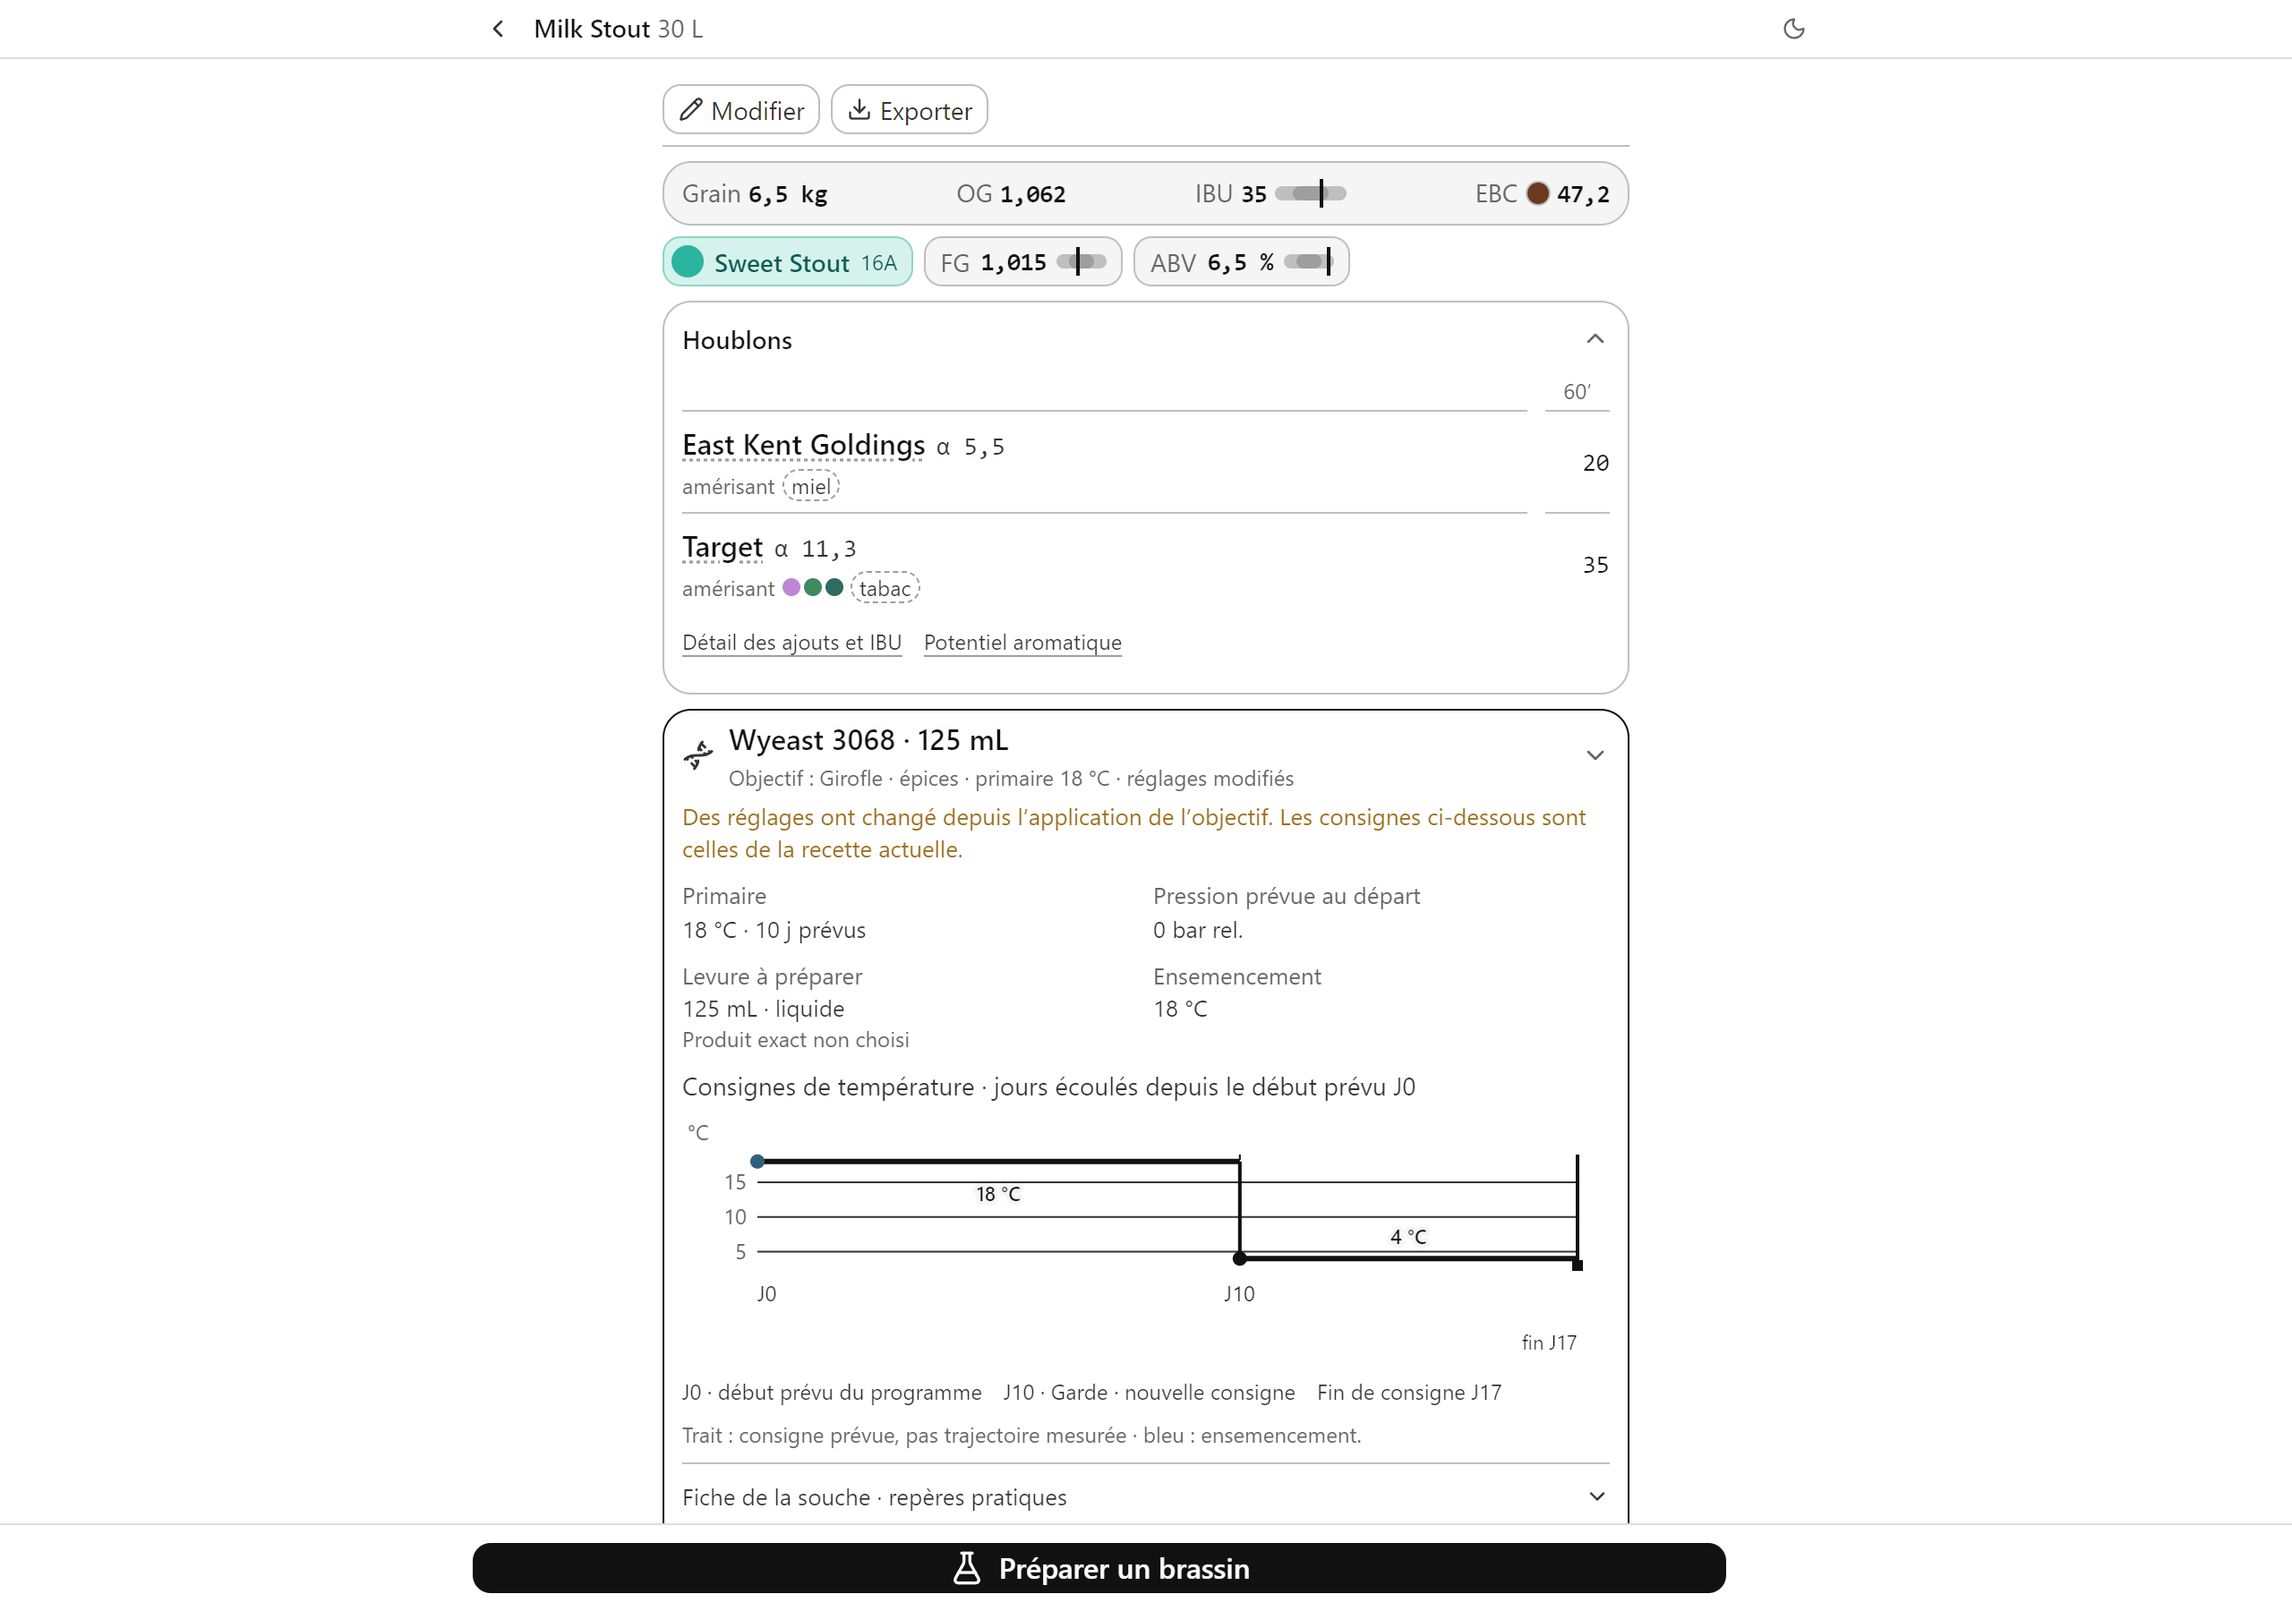
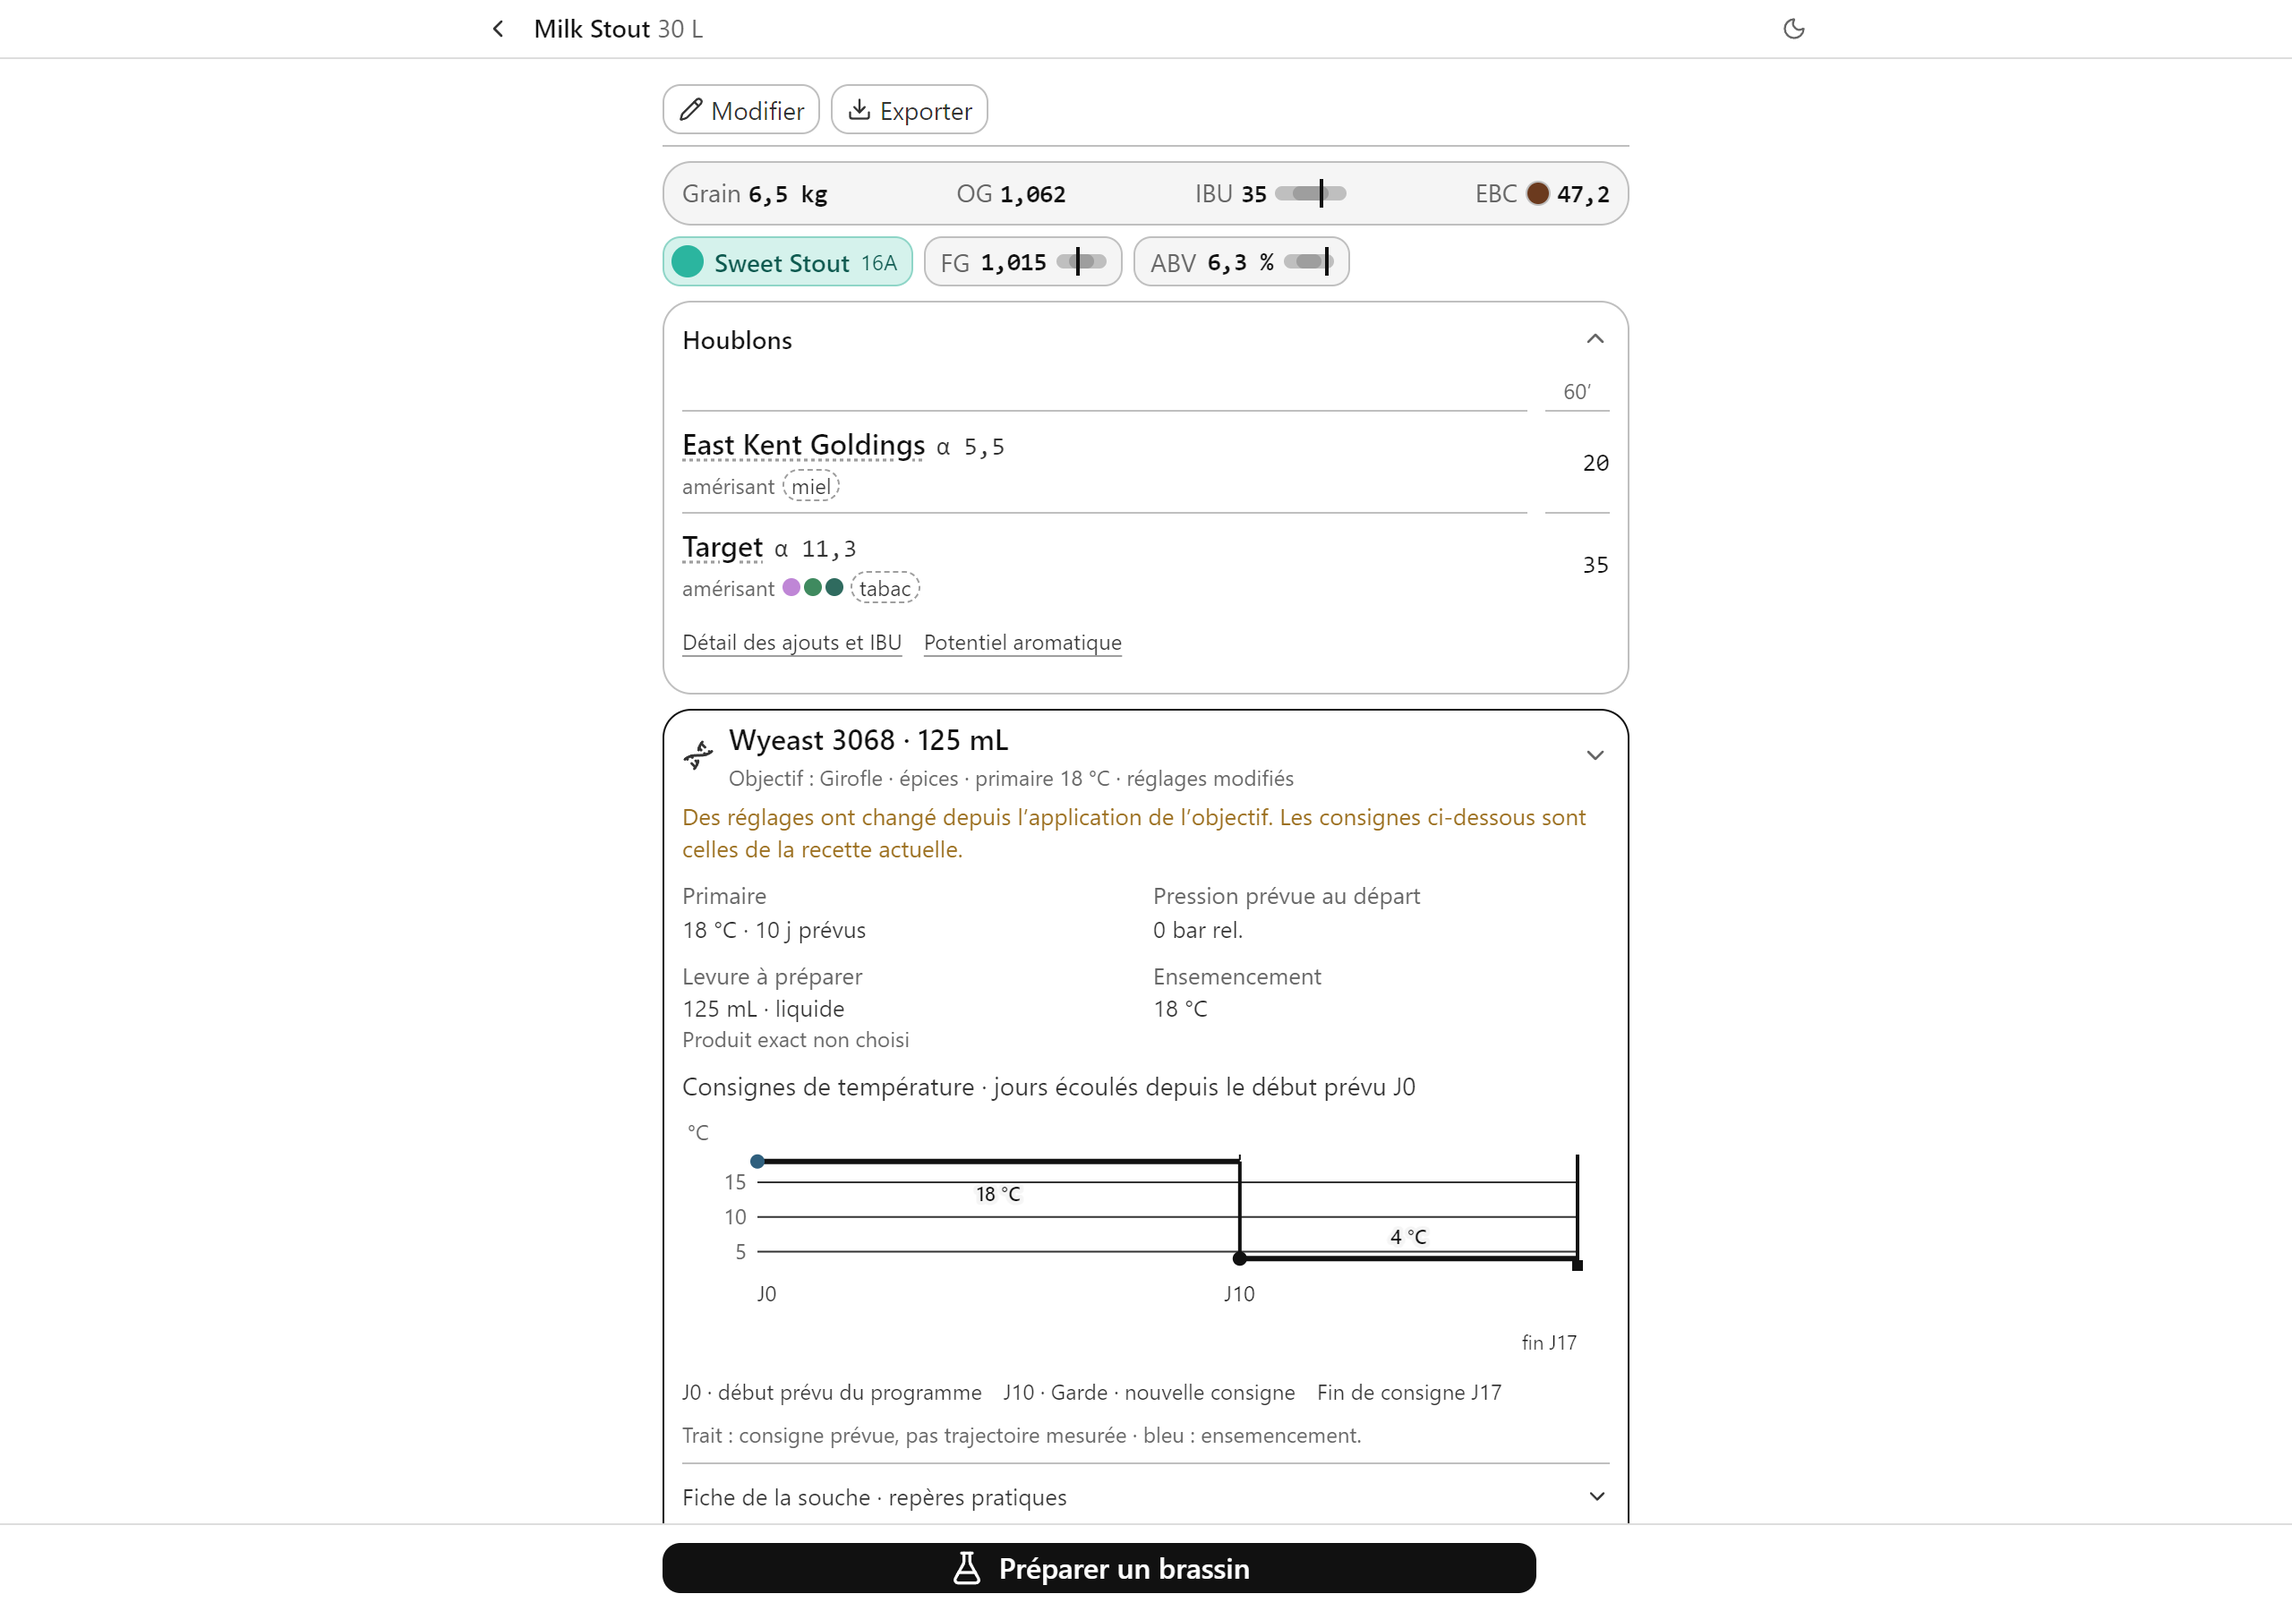
Bugs T3B (f1) k2 : captures, banc, RESULTAT et Fait

Changed region(s): [[0.6562, 0.9333, 0.75, 0.9956], [0.1875, 0.9333, 0.3125, 0.9956]]

diff --git a/work/missions/2026-11-19-bugs-ecrans/voies/f1/banc/banc.tsx b/work/missions/2026-11-19-bugs-ecrans/voies/f1/banc/banc.tsx
@@ -21,7 +21,7 @@ const NOMS_DU_STOCK = ['Maris Otter', 'Röstgerste (orge torréfiée)', 'Caramü
 const base = yeastFlowRecipe() as Recipe & { boilMin?: number };
 delete base.boilMin;
 const recette = {
-  ...base, id: 'rec-ms', name: 'Milk Stout', style: 'Milk Stout', volumeL: 30, ogTarget: 1.062, batchRef: 'LOT-001', adjuncts: [],
+  ...base, id: 'rec-ms', name: 'Milk Stout', style: 'Milk Stout', volumeL: 30, ogTarget: 1.062, fgTarget: 1.015, abvTarget: 6.3 /* ASBC Beer-4 pour 1,062 → 1,015 : 6,28 % (la fixture de base portait 6,49 : k2, ABV 6,5 % incohérent) */, batchRef: 'LOT-001', adjuncts: [],
   fermentables: [
     { name: 'Maris Otter', weightKg: 5.5, kind: 'grain', use: 'empatage', potentialPpg: 37, colorEbc: 5 },
     { name: 'Rstgerste (orge torrfie)', weightKg: 0.4, kind: 'grain', use: 'empatage', potentialPpg: 30, colorEbc: 1100 },

diff --git a/work/missions/2026-11-19-bugs-ecrans/voies/k2/CORRECTIONS-f1.md b/work/missions/2026-11-19-bugs-ecrans/voies/k2/CORRECTIONS-f1.md
@@ -1,0 +1,34 @@
+# Corrections f1, tour 2 (critique k2, 20.11)
+
+Liste figée (L18) : chaque point est corrigé et prouvé seul (test si c’est une règle ; capture 390 et 1280, clair et cave, ouverte), ou écarté avec raison. Un point « hors voie » de la critique se corrige s’il est dans ton « Possède » (voies/f1/VOIE.md) ; sinon « ouvert — hors voie : fichier ». Même contrat que voies/f1/VOIE.md : COMMUN.md, test rouge d’abord, commit par chemins « Bugs T3B (f1) k2 : … » terminé par « Co-Authored-By: Claude Opus 5.5 <noreply@anthropic.com> », jamais de déploiement ni de données réelles, jamais stash/reset/checkout.
+
+## Problèmes (RAPPORT.md, même dossier)
+10. f1 / hors voie / fiche-390-{clair,cave}-1, fiche-1280-clair-1 : sur le graphique d'Empâtage, les étiquettes « 66 °C · 60′ » et « 44 °C · 15′ » sont barrées par la ligne de grille. Elles sont aussi dans une police à empattements, différente de tout le reste / gênant
+11. f1 / fiche-{390,1280}-*-0 : la carte affiche « Wyeast 3068 · 125 mL », puis « Produit exact non choisi » juste en dessous. Les deux se contredisent / gênant
+12. f1 / T3B-12 / fiche-*-3 : redites. « Ébullition 60′ » est suivi de « Ébullition de 60 min. » ; le titre « Fermentation » est suivi du sous-titre « Fermentation » ; les pastilles « Primaire » et « Garde » répètent le mot qui est juste à côté / détail
+13. f1 / T3B-11 / fiche-390-*-4, fiche-1280-*-3 : la densité du brassin s'écrit « 1.062 » (avec un point), alors que le bandeau dit « 1,062 » / détail
+14. f1 / fiche-*-4 : le Déroulé finit par « FIN DE RECETTE » en capitales, après une ligne vide (reste de l'import). Le Bilan écrit aussi « AVANT la fin de l'ébullition » / détail
+15. f1 / fiche-1280-* : à 1280, la colonne fait environ 970 px, mais la barre « Préparer un brassin » est plus large qu'elle. Les deux ne sont pas alignées / détail
+
+## Doutes à trancher
+- f1, T3B-6 : la capture « simuler » est restée sur le Bilan (« onglet trouvé false »). Le correctif n'est donc pas vu. Je ne vois pas non plus d'onglet « Simuler » dans « Détail des ajouts et IBU » à 390.
+- f1 : ABV 6,5 % pour OG 1,062 et FG 1,015. La formule simple donne 6,2 %, la formule alternative 6,4 %. À vérifier.
+- f1 : la fixture (Milk Stout, Wyeast 3068, objectif « Girofle · épices », repos férulique) n'est pas une recette crédible. Ce n'est pas un défaut de l'app, mais la fiche n'est pas jugée sur une vraie pièce (L28).
+- f1 : je ne vois pas si les 300 g de lactose, désormais en « Additifs », comptent encore dans l'OG et la FG.
+- Les 300 g de lactose passés en Additifs doivent rester comptés dans l’OG (sucre non fermentescible : OG oui, atténuation non). Test qui le prouve. ABV 6,5 % pour 1,062/1,015 : vérifier la formule de l’app (ne rien changer si c’est la formule documentée).
+
+## Preuves demandées (à produire toi-même)
+1. f1, T3B-6 (Simuler) : dans `voies/f1/banc/capturer.mjs`, ouvrir « Détail des ajouts et IBU », puis cliquer l'onglet dont le nom est exactement « Simuler » (rôle tab ; repli : le bouton au texte exact « Simuler », jamais « Simuler une variante de levure »). Capturer `fiche-{390,1280}-{clair,cave}-simuler.png` (4) et écrire dans EXECUTANT.md : onglet trouvé true/false, présence de « durée d'ébullition » (attendu : absente), et le texte de « Viser des IBU ». Commande : `node scripts/with_server.mjs --server "npx vite --port 3108 --strictPort" --port 3108 --timeout 120 -- node work/missions/2026-11-19-bugs-ecrans/voies/f1/banc/capturer.mjs`.
+
+## Rendre
+En bas de ce fichier, « ## Fait » : une ligne par point « n° | corrigé <sha> / écarté <raison> / ouvert <raison> | capture ». Mettre à jour voies/f1/RESULTAT.md si un verdict change, puis tests.txt ; `node work/missions/2026-11-19-bugs-ecrans/verdicts.mjs f1` et `--tests` OK. Réponse : une ligne.
+
+## Fait
+10 | ouvert — hors voie : src/ui/recette/Dessins.tsx (voie r1), `CourbeEmpatage` : (a) `fontFamily="IBM Plex Mono"` et `"Source Sans 3"` sans repli générique, d'où la police à empattements quand la police manque : ajouter `, ui-monospace, monospace` et `, system-ui, sans-serif` ; (b) le halo des étiquettes (`strokeWidth="3"`) laisse passer la grille entre les lettres : un `<rect>` de fond (fill `rgb(var(--cave-950))`, largeur ≈ 8,4 px × nombre de caractères + 8, hauteur 18, centré sur le texte) ou `strokeWidth="8"` | fiche-390-clair-1 (vu)
+11 | ouvert — hors voie : src/ui/YeastRecipeWorkbench.tsx:340 et src/ui/YeastPitchingPanel.tsx:875 (zone Levure) : « Produit exact non choisi » sous « Wyeast 3068 · 125 mL » se lit comme une contradiction ; proposé « Sachet ou lot précis à choisir » (la souche est choisie, le produit commercial non) ou ligne retirée tant qu'aucun produit n'est choisi | fiche-390-clair-0 (vu)
+12 | corrigé f80595f5b : « Ébullition de 60 min. » retirée (seule la densité de début d'ébullition reste, si connue) ; sous-titre « Fermentation » retiré ; pastille cachée quand elle redit le nom de la phase, gardée sinon (« Fermentation principale » → Primaire) | fiche-390-clair-4, fiche-1280-cave-3 (ouvertes)
+13 | corrigé f80595f5b : `densiteLue` (« 1.062 » → « 1,062 », illisible gardé tel quel) | fiche-390-clair-4, fiche-1280-cave-3
+14 | corrigé f80595f5b pour « FIN DE RECETTE » (`instructionsAffichees` : marqueur et lignes vides de la fin retirés ; Déroulé absent s'il ne reste rien) ; « AVANT » : ouvert — hors voie : src/domain/hopStage.ts:43 (`'Compté en minutes AVANT la fin de l’ébullition.'` → « avant ») ; ce texte s'affiche dans « Détail des ajouts et IBU » (pas dans le Bilan) et dans BrewWizard | fiche-390-clair-4
+15 | corrigé f80595f5b : le pied de page prend la colonne de la fiche à partir de 700 px (`min-[700px]:max-w-[540px] mx-auto`) ; mesuré 540 px = 540 px, même x | fiche-1280-cave-3, fiche-1280-clair-simuler, sortie-k2.txt
+
+Doutes : T3B-6 Simuler : onglet trouvé true aux 4 combinaisons, « durée d'ébullition » absente (EXECUTANT.md) ; l'onglet est dans « Potentiel aromatique », pas dans « Détail des ajouts et IBU ». ABV 6,5 % : écarté, valeur retenue `abvTarget` 6,49 de la fixture de base, pas la formule ; la formule documentée (ASBC Beer-4, alcohol.ts) donne 6,28 % pour 1,062/1,015 ; banc corrigé (abvTarget 6,3, fgTarget 1,015). Fixture : simulée, non jugée sur une vraie pièce (L28), limite connue. Lactose : test vert (OG calculée +≈3 points, FG qui monte, atténuation inchangée sur le lactose via la projection ; OG retenue 1,062 inchangée avec le lactose rangé parmi les houblons) ; limite : donnée abîmée du brasseur sans `ogTarget`, le lactose rangé dans `recipe.hops` ne compte pas dans l'OG calculée (avant comme après).

diff --git a/work/missions/2026-11-19-bugs-ecrans/voies/f1/captures/EXECUTANT.md b/work/missions/2026-11-19-bugs-ecrans/voies/f1/captures/EXECUTANT.md
@@ -1,0 +1,15 @@
+# Captures f1, tour 2 (k2, 20.11) — lues par l'auteur
+
+Lancement : `node scripts/with_server.mjs --server "npx vite --port 3108 --strictPort" --port 3108 --timeout 120 -- node work/missions/2026-11-19-bugs-ecrans/voies/f1/banc/capturer.mjs` (390-clair relancé seul : premier passage dépassé le délai de 240 s à froid). Sorties : `sortie-k2.txt`, `sortie-k2-390clair.txt`. 0 erreur de console.
+
+## Preuve 1 — onglet Simuler (T3B-6)
+- « Détail des ajouts et IBU » ne contient PAS l'onglet : il ouvre le panneau d'IBU par ajout (HopBitternessPanel). L'atelier à onglets Bilan / Simuler / Goût-levure vit dans « Potentiel aromatique » : le banc ouvre d'abord « Détail », ne trouve pas l'onglet, puis ouvre « Potentiel aromatique ».
+- Onglet trouvé (rôle tab, nom exact « Simuler ») : **true** aux 4 combinaisons (390 clair, 390 cave, 1280 clair, 1280 cave).
+- « durée d'ébullition » : **absente** aux 4.
+- Texte de « Viser des IBU » : « Viser des IBU / Déplacer un ajout / Remplacer un houblon / Dose à cru — Ajout : Nouvel ajout, 1. Target · Ébullition, 2. East Kent Goldings · Ébullition — Alpha du lot à simuler 11,3 % — Minutes avant la fin 60 min — Cible totale à chaud (vide) IBU — Repères : 20 IBU 30 IBU 40 IBU — Réinitialiser — Simulation locale. Pour conserver un changement, ouvre la modification de recette. » Ouvertes : fiche-390-cave-simuler, fiche-1280-clair-simuler (minutes avant la fin = 60, message « Saisis la cible totale d'IBU à chaud. »).
+
+## Largeurs (n° 15)
+390 : colonne 374 px, barre 374 px, même x (8). 1280 : colonne 540 px (x 370), barre 540 px (x 370) : alignées (avant : barre sur toute la page, max-w-3xl).
+
+## Ouvertes après correctif
+fiche-390-clair-4 et fiche-1280-cave-3 : Ébullition « 60′ » sans phrase redite ; Fermentation sans sous-titre ni pastilles redites (Primaire 18 °C 10 j, Garde 4 °C 7 j) ; Déroulé finit sur « Puis concasser : 1 mm. » ; Brassins : LOT-001 « 1,062 » ; Additifs Lactose 300 g et Whirlfloc 1 g.

diff --git a/work/missions/2026-11-19-bugs-ecrans/voies/f1/RESULTAT.md b/work/missions/2026-11-19-bugs-ecrans/voies/f1/RESULTAT.md
@@ -17,3 +17,11 @@ DEMANDE EXECUTANT :
 
 CONNAISSANCE : une correction « défaut par défaut » (TL-27) doit se poser à l'entrée d'un composant, pas à chaque appel de calcul : le 19.11 elle ne couvrait qu'un des deux appels. 
 LEÇON PROPOSÉE : aucune
+
+## Tour 2 (k2, 20.11)
+- T3B-6 | corrigé | ee7160cdc | prouvé : onglet « Simuler » trouvé (rôle tab) aux 4 captures, « durée d'ébullition » absente ; il vit dans « Potentiel aromatique » (captures/EXECUTANT.md).
+- k2 n° 12, 13, 14 (marqueur), 15 | corrigé | f80595f5b | redites, densité « 1,062 », « FIN DE RECETTE », barre sur la colonne de 540 px ; tests `bugs-f1-k2` (rouges avant : 8 sur 12).
+- k2 n° 10, 11, 14 (« AVANT ») | ouvert | — | hors voie : Dessins.tsx, YeastRecipeWorkbench.tsx / YeastPitchingPanel.tsx, hopStage.ts ; changements exacts dans voies/k2/CORRECTIONS-f1.md (« Fait »).
+- ABV 6,5 % | écarté | — | `abvTarget` de la fixture (6,49), non la formule (ASBC : 6,28 %).
+- Lactose | test | f80595f5b | OG oui, atténuation non ; limite : donnée sans ogTarget avec lactose parmi les houblons.
+Tests : 14 fichiers, 99 passés, 0 échoué (tests.txt). Hors voie : `fix114` (Finances) échoue sur son menu, sans lien avec la fiche.
